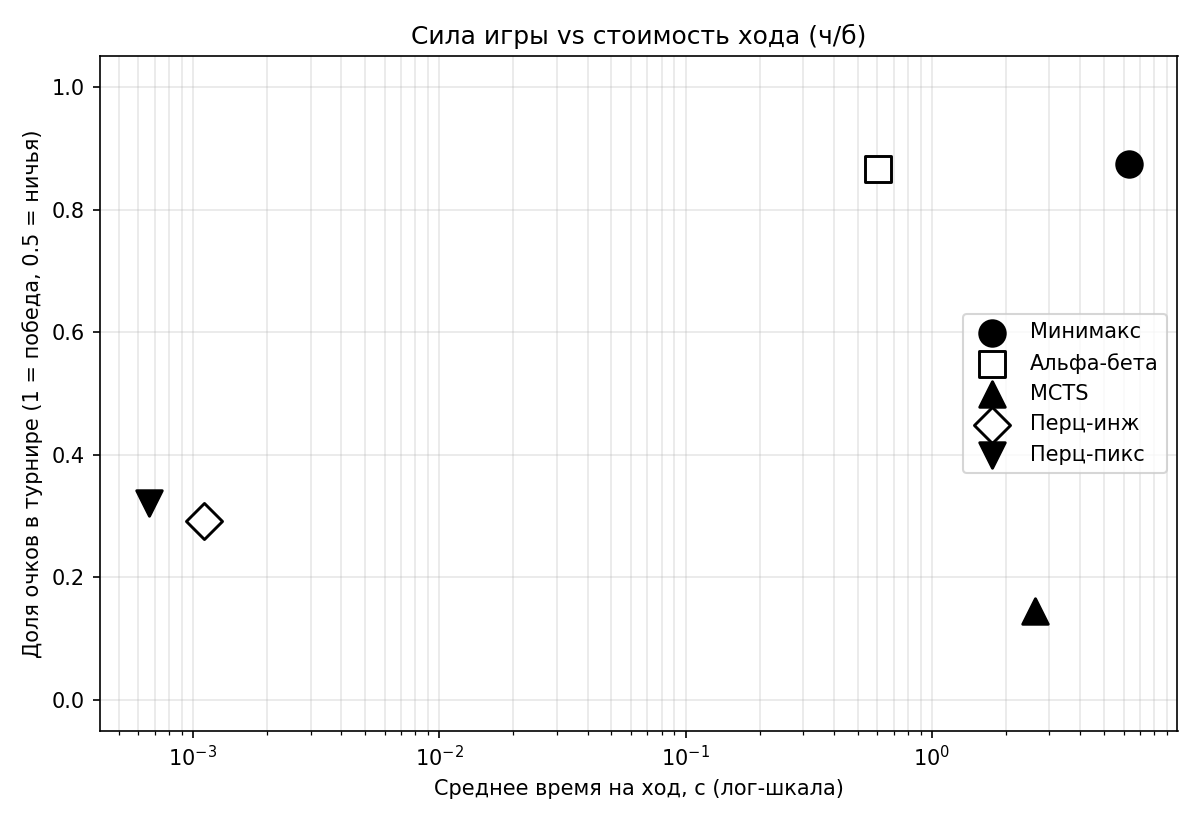
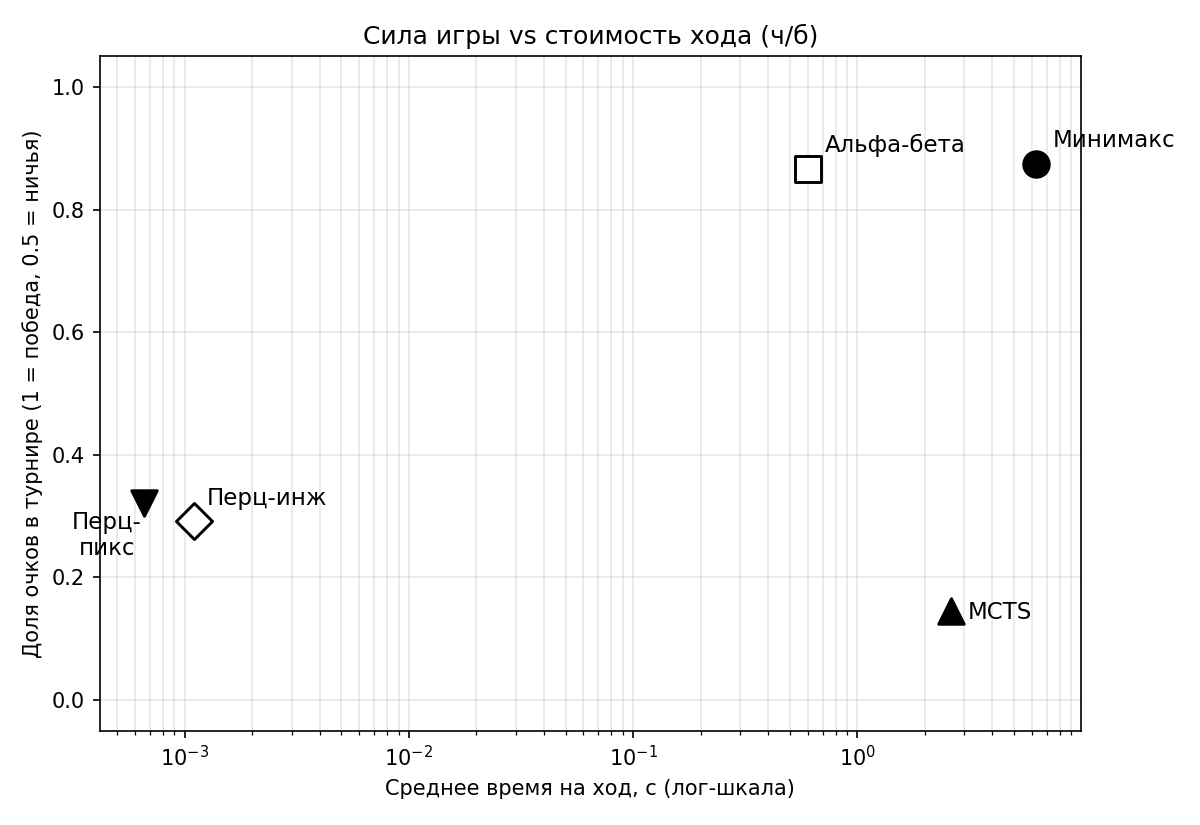
bw-график «сила vs стоимость»: подписи у точек вместо легенды

diff --git a/experiments/make_bw_figures.py b/experiments/make_bw_figures.py
@@ -24,7 +24,11 @@ matplotlib.use("Agg")  # headless
 import matplotlib.pyplot as plt  # noqa: E402
 import numpy as np  # noqa: E402
 
-from experiments.fig_strength_vs_cost import compute_strength_and_time  # noqa: E402
+from experiments.fig_strength_vs_cost import (  # noqa: E402
+    ANNOT_LABEL,
+    LABEL_OFFSET,
+    compute_strength_and_time,
+)
 
 RESULTS_DIR = "results"
 PERF_CSV = os.path.join(RESULTS_DIR, "perf.csv")
@@ -254,16 +258,20 @@ def bw_strength_vs_cost(rows: list[dict]) -> None:
         marker, filled = SCATTER_MARKERS.get(a, ("o", True))
         ax.scatter(times[a], scores[a], s=150, zorder=3, marker=marker,
                    facecolors="black" if filled else "white",
-                   edgecolors="black", linewidths=1.4,
-                   label=ALGO_LABEL.get(a, a))
+                   edgecolors="black", linewidths=1.4)
+        # Подписи у точек — те же смещения, что в цветной версии.
+        ax.annotate(
+            ANNOT_LABEL.get(a, ALGO_LABEL.get(a, a)), (times[a], scores[a]),
+            xytext=LABEL_OFFSET.get(a, (8, 8)),
+            textcoords="offset points", fontsize=11,
+            ha="center" if a in ANNOT_LABEL else "left",
+        )
     ax.set_xscale("log")
     ax.set_xlabel("Среднее время на ход, с (лог-шкала)")
     ax.set_ylabel("Доля очков в турнире (1 = победа, 0.5 = ничья)")
     ax.set_title("Сила игры vs стоимость хода (ч/б)")
     ax.set_ylim(-0.05, 1.05)
     ax.grid(True, which="both", alpha=0.3)
-    # Вместо подписей у точек — легенда (надёжнее в ч/б).
-    ax.legend(loc="center right", fontsize=10)
     fig.tight_layout()
     _save(fig, "bw_fig_strength_vs_cost.png")
 
